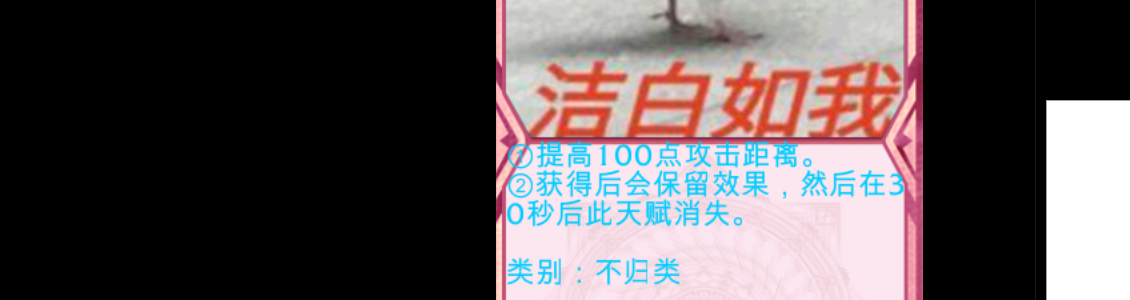
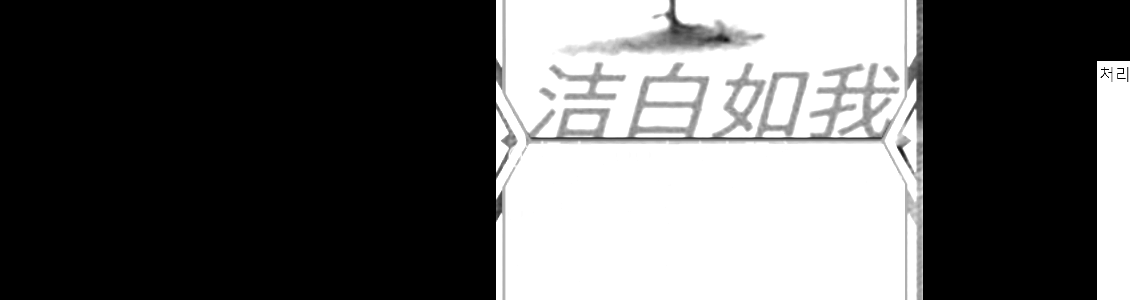
final version of screen_translator

diff --git a/screen_translator.py b/screen_translator.py
@@ -1,22 +1,57 @@
 import tkinter as tk
 from tkinter import ttk
+from PIL import Image, ImageEnhance
 import pyautogui
 import easyocr
 import threading
 from openai import OpenAI
+import pandas as pd
+from sklearn.feature_extraction.text import TfidfVectorizer
+from sklearn.metrics.pairwise import cosine_similarity
 
 from dotenv import load_dotenv
 import os
-from openai import OpenAI
 
 load_dotenv()
 OPENAI_API_KEY = os.getenv("OPENAI_API_KEY")
+
+# ✅ OpenAI API 클라이언트
 client = OpenAI(api_key =OPENAI_API_KEY) 
 
+# ✅ OCR 영역
 OCR_REGION = (250, 400, 1130, 300)
 
+# ✅ OCR 초기화
 reader = easyocr.Reader(['ch_sim', 'en'])
 
+# ✅ 추천 데이터 준비
+df1 = pd.read_excel("엘리시아 모음-3.xlsx")
+df2 = pd.read_excel("신생 - 개조버전.xlsx", header=None, skiprows=1)
+df2.columns = ['캐릭터', '효과 요약', '분류']
+
+combined_df = pd.concat([df1, df2], ignore_index=True)
+combined_df = combined_df.dropna(subset=['캐릭터', '효과 요약'])
+combined_df['text'] = combined_df['캐릭터'].astype(str) + " " + combined_df['효과 요약'].astype(str)
+
+vectorizer = TfidfVectorizer()
+tfidf_matrix = vectorizer.fit_transform(combined_df['text'])
+
+# ✅ 카드 추천 함수
+def recommend_cards_based_on_text(user_text, top_n=3):
+    user_vec = vectorizer.transform([user_text])
+    similarities = cosine_similarity(user_vec, tfidf_matrix).flatten()
+    top_indices = similarities.argsort()[::-1][:top_n]
+
+    recommendations = []
+    for idx in top_indices:
+        name = combined_df.iloc[idx]['캐릭터']
+        desc = combined_df.iloc[idx]['효과 요약']
+        score = round(similarities[idx], 2)
+        recommendations.append((name, desc, score))
+
+    return recommendations
+
+# ✅ GPT 번역 함수
 def translate_with_gpt(text):
     prompt = f"다음 중국어 문장을 한국어로 번역해줘:\n\n{text}"
     response = client.chat.completions.create(
@@ -29,13 +64,23 @@ def translate_with_gpt(text):
     )
     return response.choices[0].message.content.strip()
 
+# ✅ 이미지 전처리
+
+def preprocess_image(pil_img):
+    gray = pil_img.convert("L")
+    enhancer = ImageEnhance.Contrast(gray)
+    return enhancer.enhance(2.5)
+
+# ✅ OCR + GPT + 추천
+
 def process_text():
     try:
         text_box.delete('1.0', tk.END)
         text_box.insert(tk.END, "처리 중...\n")
 
         screenshot = pyautogui.screenshot(region=OCR_REGION)
-        screenshot.save("capture.png")
+        processed_img = preprocess_image(screenshot)
+        processed_img.save("capture.png")
 
         results = reader.readtext("capture.png", detail=0)
         extracted_text = " ".join(results).strip()
@@ -49,24 +94,35 @@ def process_text():
         text_box.delete('1.0', tk.END)
         text_box.insert(tk.END, f"[OCR 결과]\n{extracted_text}\n\n[GPT 번역 결과]\n{translated}")
 
+        # 카드 추천
+        recommendations = recommend_cards_based_on_text(translated)
+        recommendation_text = "\n\n[추천 카드]\n"
+        for name, desc, score in recommendations:
+            recommendation_text += f"✔ {name} (유사도 {score})\n  - {desc.strip()[:60]}...\n"
+
+        text_box.insert(tk.END, recommendation_text)
+
     except Exception as e:
         text_box.insert(tk.END, f"\n[오류 발생] {e}")
+
+# ✅ UI 구성
 
 def on_click():
     threading.Thread(target=process_text).start()
 
 window = tk.Tk()
-window.title("워크래프트3 GPT 번역기")
+window.title("워크래프트3 GPT 번역 + 추천기")
 window.geometry("600x500")
 window.configure(bg='black')
 
-label = tk.Label(window, text="워크래프트3 실시간 카드 번역", font=("맑은 고딕", 16), bg='black', fg='white')
+label = tk.Label(window, text="워크래프트3 실시간 카드 번역 + 추천", font=("맑은 고딕", 16), bg='black', fg='white')
 label.pack(pady=10)
 
-btn = ttk.Button(window, text="OCR + GPT 번역 실행", command=on_click)
+btn = ttk.Button(window, text="OCR + GPT 번역 + 추천", command=on_click)
 btn.pack(pady=10)
 
 text_box = tk.Text(window, wrap='word', font=("맑은 고딕", 12), height=20)
 text_box.pack(padx=10, pady=10, fill='both', expand=True)
 
 window.mainloop()
+
